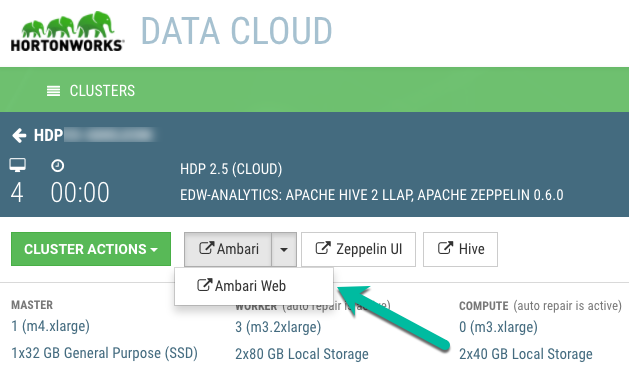
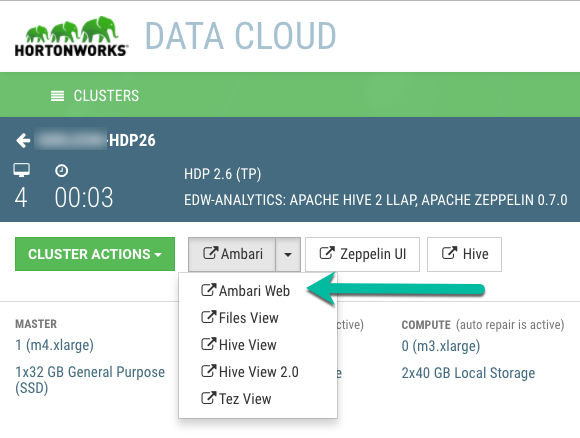
fast analytics: remove table structure

diff --git a/tutorials/hdp/hdp-2.6/fast-analytics-in-the-cloud-with-hive-llap/tutorial.md b/tutorials/hdp/hdp-2.6/fast-analytics-in-the-cloud-with-hive-llap/tutorial.md
@@ -38,7 +38,7 @@ A few cluster modifications are required when creating a cluster to take advanta
 From the CloudFormation service screen, Open CloudURL:
 1. Select your CloudController Stack Name
 2. Select the Outputs tab
-3. Search for the Key "CloudURL" and open the URL provided.
+3. Search for the Key "CloudController" and open the URL provided.
 
 ![open CloudURL](assets/cluster2.png)
 
@@ -47,7 +47,7 @@ Login using your credentials:
 ![open CloudURL](assets/cluster3.png)
 
 Create a cluster as you normally do, with the exception of:
-1. <mark>Cluster Type:</mark> EDW-Analytics: Apache Hive 2 LLAP, Apache Zeppelin 0.6.0
+1. <mark>Cluster Type:</mark> EDW-Analytics: Apache Hive 2 LLAP, Apache Zeppelin 0.7.0
 2. <mark>Master Instance Type:</mark> m4.xlarge (4vCPU, 16.0 GB Memory)
 3. <mark>Worker Instance Type:</mark> m3.2xlarge (8vCPU, 30.0 GB Memory, 2x80 GB Local Storage)
 4. <mark>Instance Count:</mark> 3
@@ -113,13 +113,18 @@ We'll create our data model using the following 4 tables:
 
 We create our data model using the following tables loaded in order with associations as described below:
 
-| Load Order  | Table     | Inner Join Condition                                        |
-| :---------: | :-------: | :---------------------------------------------------------- |
-| 1           | flights   | n/a                                                         |
-| 2           | airlines  | Uniquecarrier = Code                                        |
-| 3           | planes    | Tailnum = Tailnum(Planes)                                   |
-| 4           | airports  | Origin = Iata, rename "airports" to "airports_origin"       |
-| 5           | airports  | Dest = Iata(Airports), rename "airports" to "airports_dest" |
+1.  drag `flights` table
+   -  no join condition needed
+2.  drag `airlines` table
+   - join condition: `Uniquecarrier = Code`
+3. drag `planes` table
+   - join condition: `Tailnum = Tailnum(Planes)`
+4.  drag `airports` table
+   - join condition: `Origin = Iata`
+   - rename `airports` to `airports_origin`
+5.  drag `airports` table
+   - join condition: `Dest = Iata(Airports)`
+   - rename `airports` to `airports_dest`
 
 The final table associations should look like this:
 
